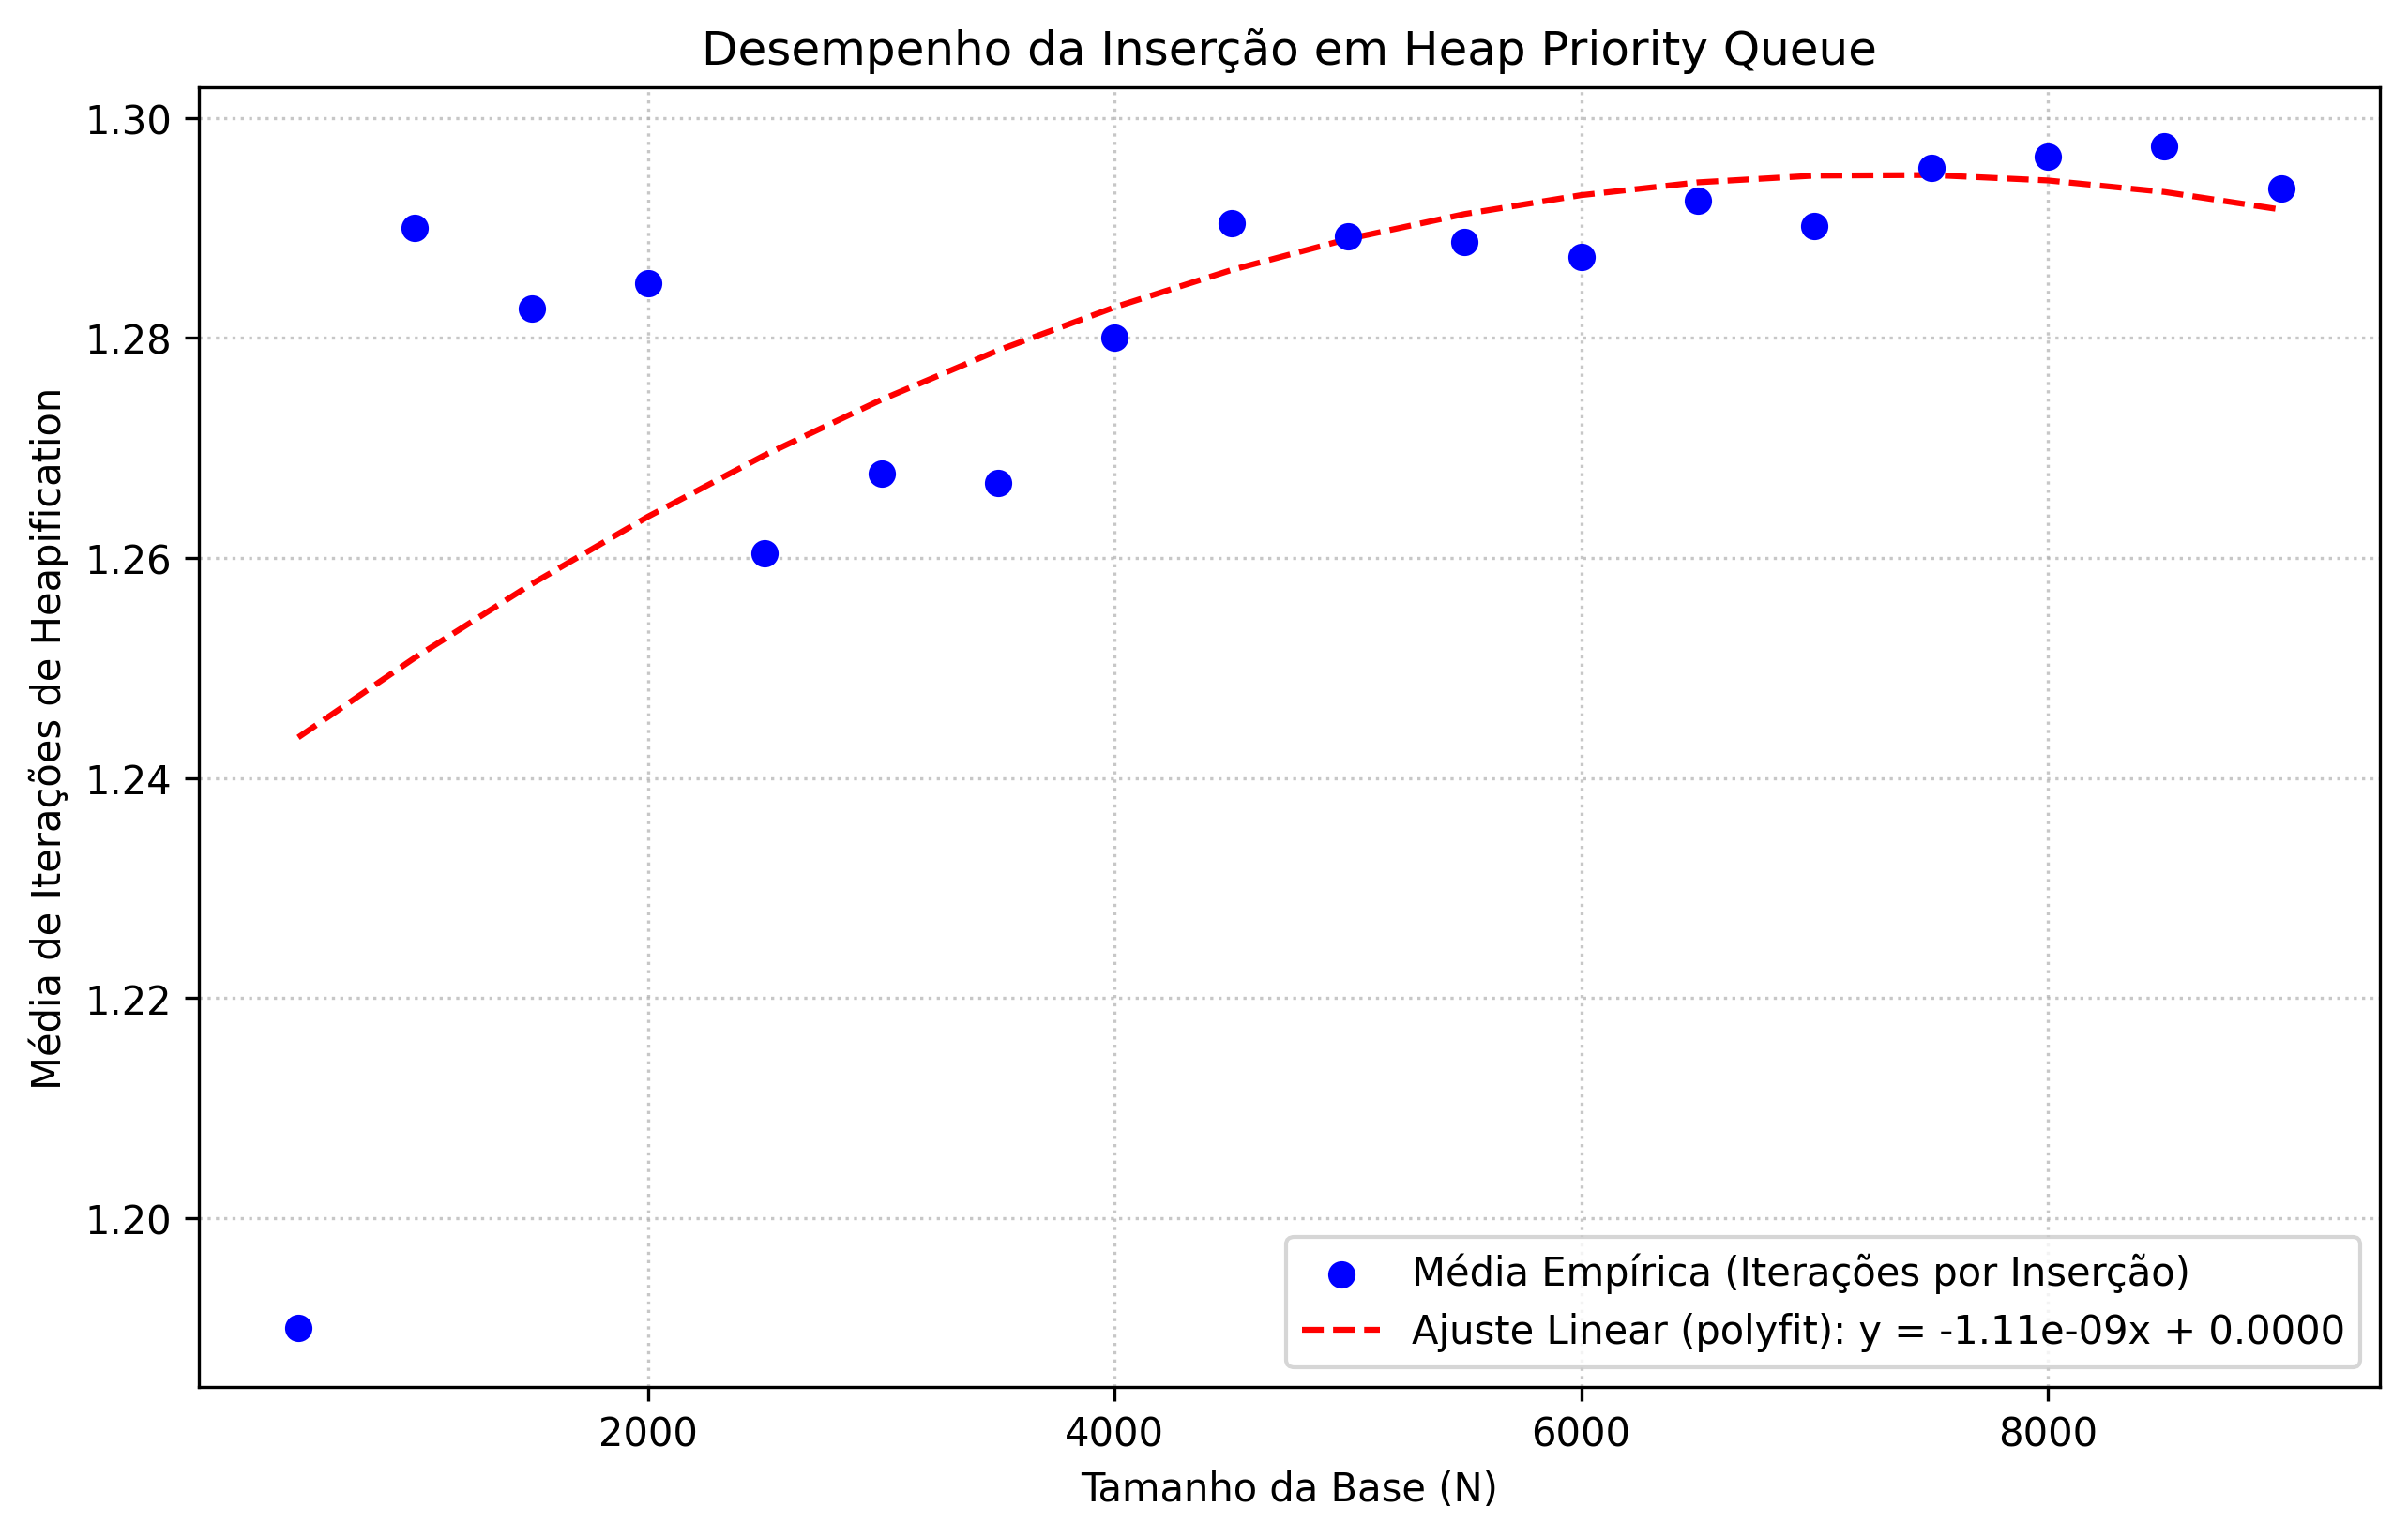
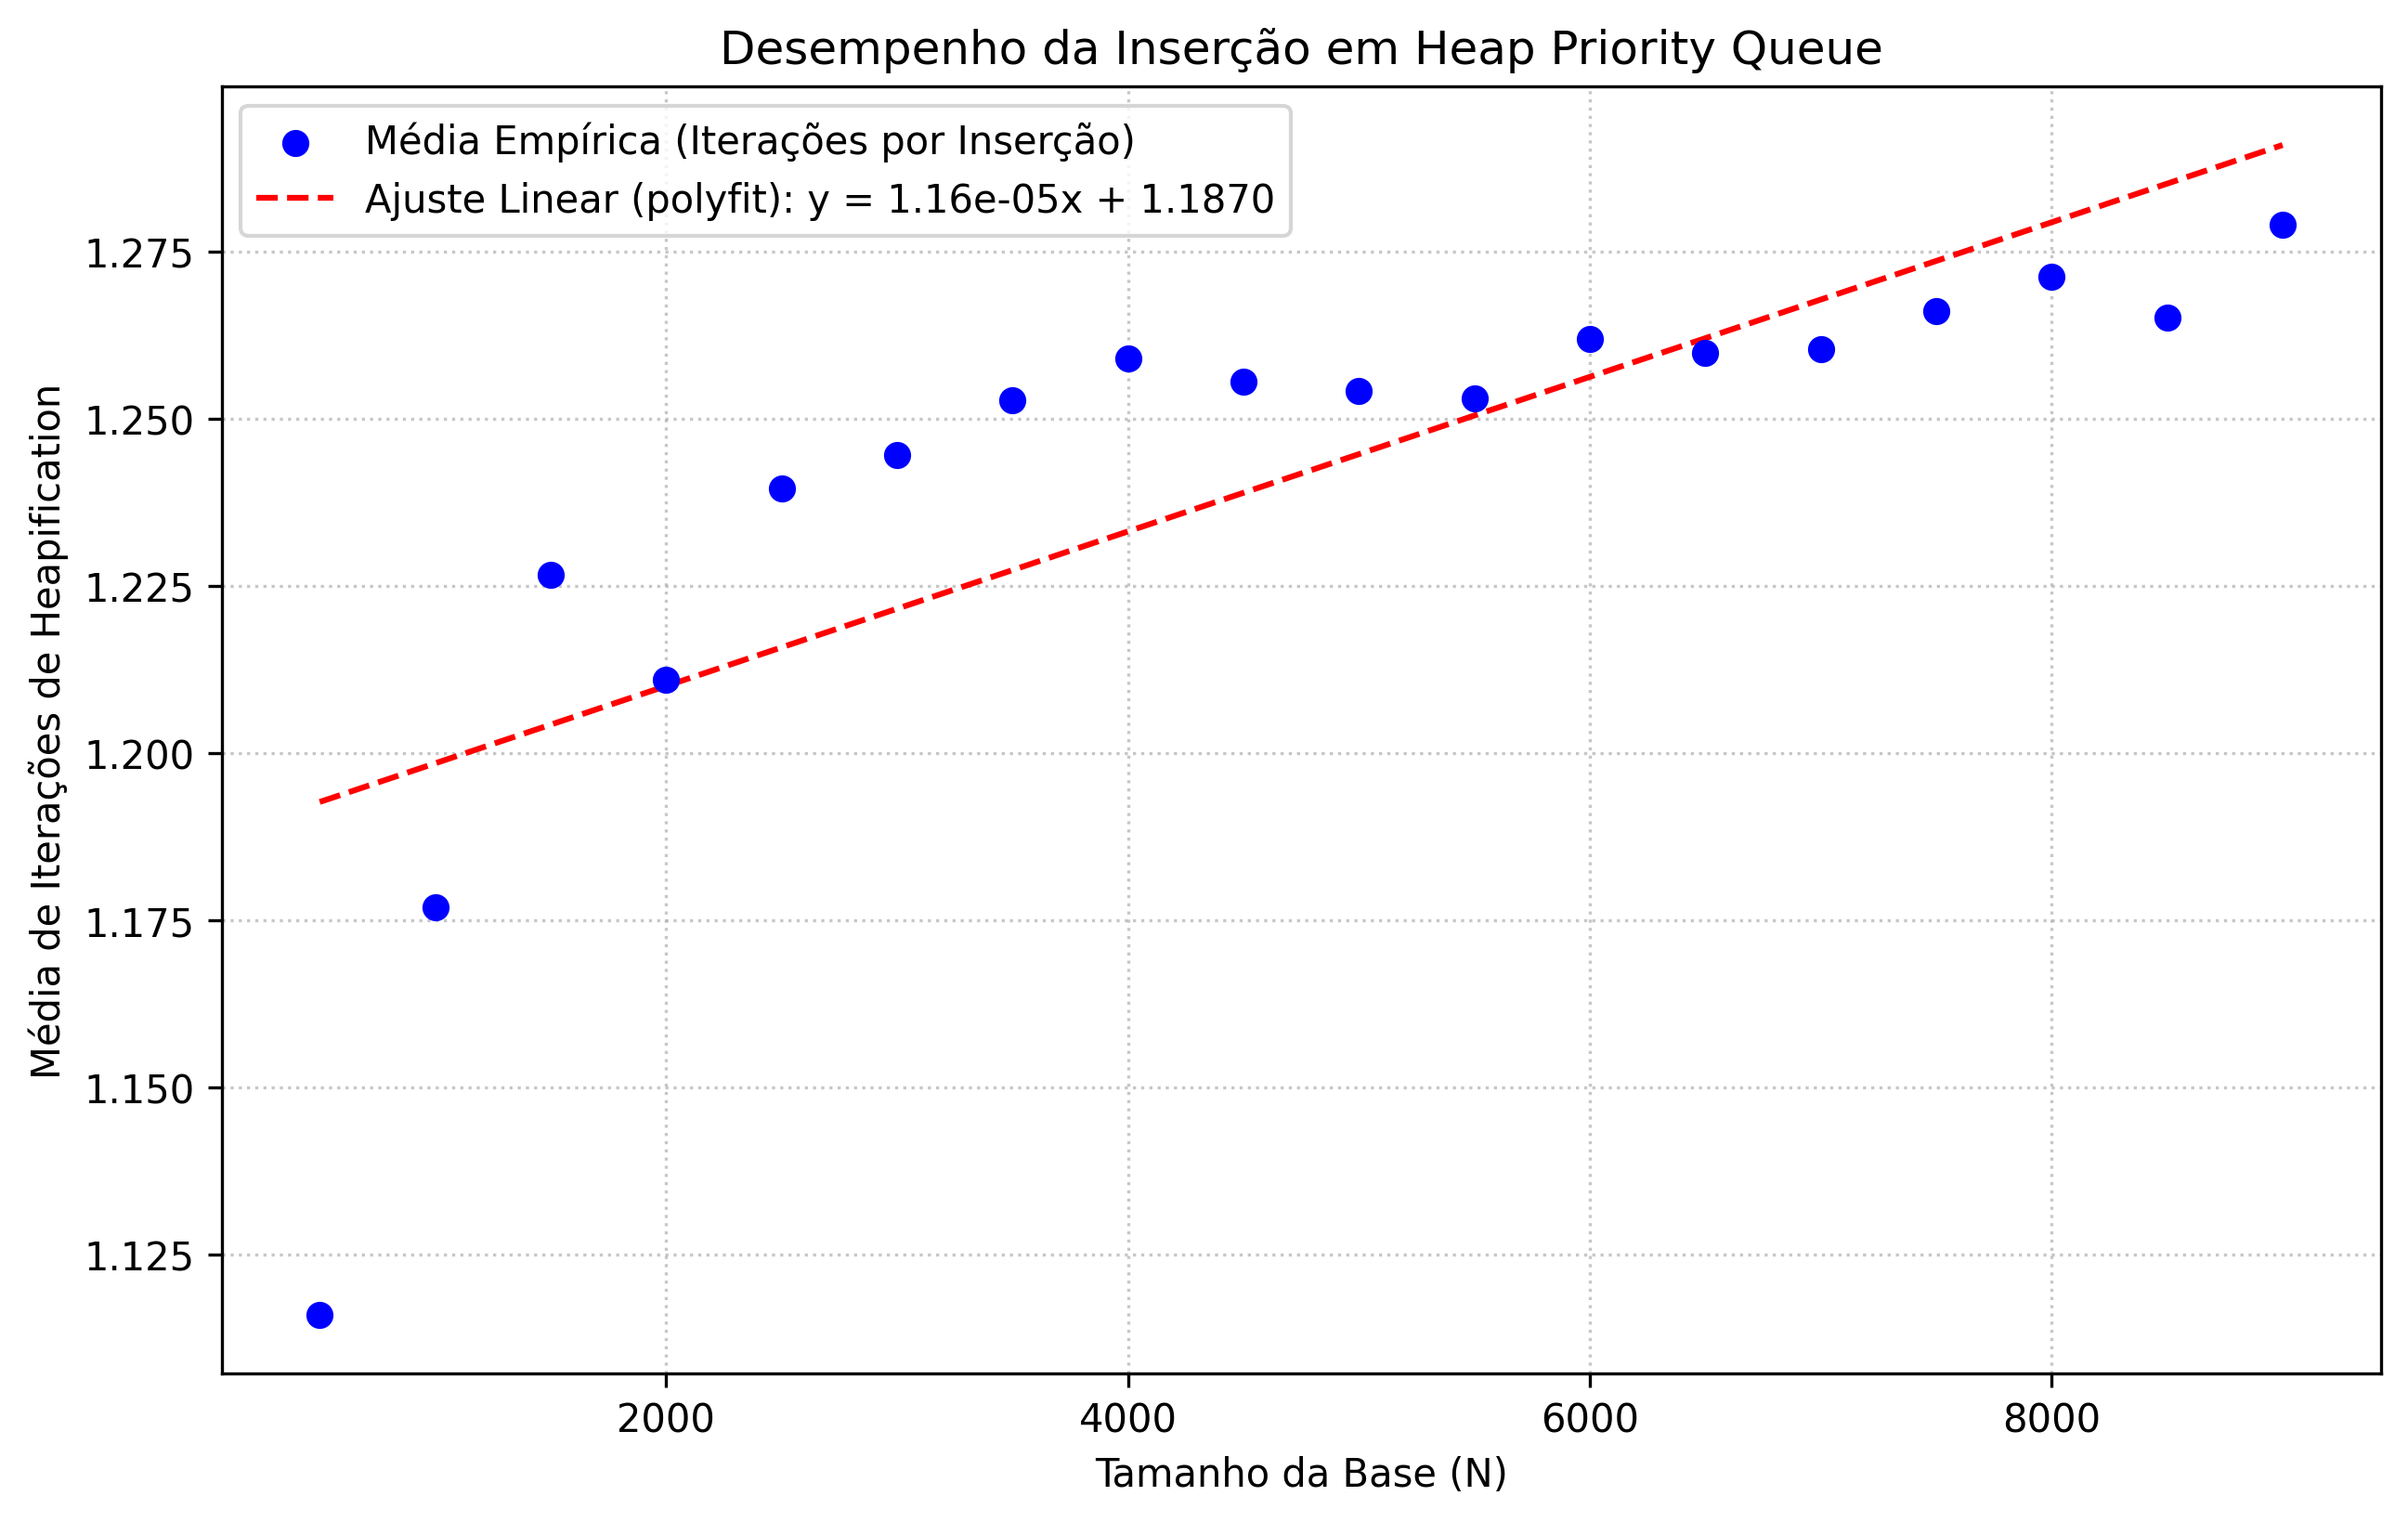
terminando tarefa 2 - Heap

diff --git a/TarefaAvaliativa2/GustavoB_ViniciusK/Codigos/questao2-3.c b/TarefaAvaliativa2/GustavoB_ViniciusK/Codigos/questao2-3.c
@@ -17,7 +17,7 @@ void embaralhaArray(info *array, int n) {
 }
 
 int main() {
-    FILE *csv = fopen("dataset_v1.csv", "r");
+    FILE *csv = fopen("../Dados/dataset_v1.csv", "r");
     if (!csv) {
         printf("Erro: nao foi possivel abrir o dataset_v1.csv\n");
         return 1;
@@ -45,14 +45,14 @@ int main() {
     fclose(csv);
     printf("Registros lidos: %d\n", total);
 
-    srand(time(NULL));
+    srand(42);
     embaralhaArray(dados, total);
 
     int bases[] = {500, 1000, 1500, 2000, 2500, 3000, 3500, 4000,
                    4500, 5000, 5500, 6000, 6500, 7000, 7500, 8000, 8500, 9000};
     int numBases = sizeof(bases) / sizeof(bases[0]);
 
-    FILE *saida = fopen("resultados.csv", "w");
+    FILE *saida = fopen("../Analise/resultados.csv", "w");
     if (!saida) {
         printf("Erro: nao foi possivel criar resultados.csv\n");
         free(dados);

diff --git a/TarefaAvaliativa2/GustavoB_ViniciusK/Analise/analise_grafico.py b/TarefaAvaliativa2/GustavoB_ViniciusK/Analise/analise_grafico.py
@@ -20,7 +20,7 @@ x = np.array(tamanhos)
 y = np.array(medias)
 
 
-coeficientes = np.polyfit(x, y, 2) # PRIMEIRO GRAU
+coeficientes = np.polyfit(x, y, 1) # PRIMEIRO GRAU
 polinomio = np.poly1d(coeficientes)
 y_ajustado = polinomio(x)
 